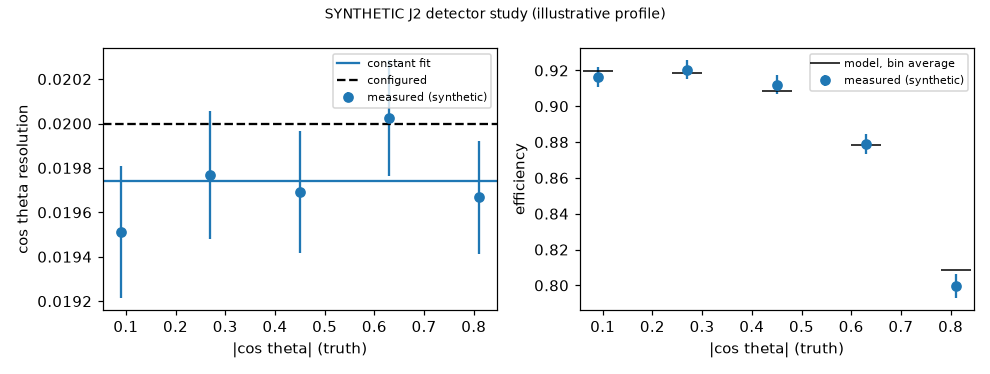
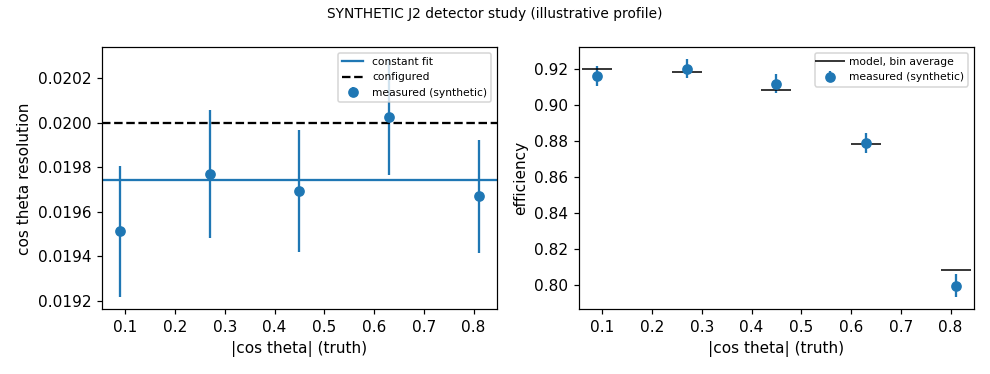
release: hep-research 0.50.0 (WIP: version constants and the outputs that reproduce on Linux)
Version 0.50.0 in both manifests, pyproject.toml, the README, two assets, the six theory-profile
scripts, usine_translate.py and examples/bc-usine-reproduction/run.py. Regenerated here
(Linux, Python 3.13.2), version-only: 8 theory-profile files and the detector-resolution,
eic-profile-routing and recasting example outputs. Not yet regenerated: 5 theory predictions and
12 example outputs whose numbers drift off E2; they need E2.

diff --git a/plugins/hep-research/examples/bc-usine-reproduction/run.py b/plugins/hep-research/examples/bc-usine-reproduction/run.py
@@ -252,7 +252,7 @@ def stage_data(out: Path) -> dict:
         "objective": "AMS-02 B/C (PRL 117, 231102, 2016), 67 rigidity bins, read from the per-source breakdown table "
                      "shipped with USINE V3.5 (a transcription of the paper's table), for the F1 reproduction",
         "bindings": {"experiments": [{"profile": "experiment:ams-02", "version": "2.0.0"}], "theory": []},
-        "versions": {"plugin": "0.49.1", "contracts": CONTRACTS_VERSION, "profiles": {"experiment:ams-02": "2.0.0"}},
+        "versions": {"plugin": "0.50.0", "contracts": CONTRACTS_VERSION, "profiles": {"experiment:ams-02": "2.0.0"}},
         "provenance": {"producer_skill": "hep-statistics", "created": "2026-10-28", "evidence_ids": ["ams02:S10"]},
         "inputs": [], "outputs": [], "status": ["observed"],
         "unresolved_inputs": ["values transcribed by USINE's authors (GPL-2.0 file, read in place): compared with the "

diff --git a/plugins/hep-research/profiles/theory/heliospheric-modulation/scripts/make_artifacts.py b/plugins/hep-research/profiles/theory/heliospheric-modulation/scripts/make_artifacts.py
@@ -16,7 +16,7 @@ from pathlib import Path
 HERE = Path(__file__).resolve().parent
 PROFILE = HERE.parent
 PROFILE_ID, PROFILE_VERSION = "theory:heliospheric-modulation", "0.1.0"
-PLUGIN_VERSION, CONTRACTS = "0.49.1", "3.17.0"
+PLUGIN_VERSION, CONTRACTS = "0.50.0", "3.17.0"
 CREATED = "2026-10-15"
 SPEC_PATH = PROFILE / "derivations" / "theory-spec.json"
 CORE_KEYS = ("unit_system", "hbar_c_one", "metric_signature", "coupling_normalization", "renormalization_scheme",

diff --git a/plugins/hep-research/adapters/cr-propagation/assets/usine_translate.py b/plugins/hep-research/adapters/cr-propagation/assets/usine_translate.py
@@ -144,7 +144,7 @@ PROGRAM = "USINE"
 PROGRAM_VERSION = ("V3.5 (git tag V3.5, commit fb53006db41d1a640bf1b5af1a4b0f899ca59673; built with Apple clang 21.0.0 "
                    "against ROOT 6.38.04)")
 CONTRACT_VERSION = "3.14.0"
-PLUGIN_VERSION = "0.49.1"
+PLUGIN_VERSION = "0.50.0"
 
 # units (r3 P1): IAU 2012 parsec = 648000/pi au, au = 149 597 870 700 m; Julian year of 365.25 d
 KPC_CM = 648000.0 / math.pi * 1.495978707e13 * 1e3

diff --git a/plugins/hep-research/profiles/theory/drell-yan-lo/scripts/make_artifacts.py b/plugins/hep-research/profiles/theory/drell-yan-lo/scripts/make_artifacts.py
@@ -26,7 +26,7 @@ PROFILE = HERE.parent
 sys.path.insert(0, str(HERE))
 
 PROFILE_ID, PROFILE_VERSION = "theory:drell-yan-lo", "0.1.0"
-PLUGIN_VERSION, CONTRACTS = "0.49.1", "3.17.0"
+PLUGIN_VERSION, CONTRACTS = "0.50.0", "3.17.0"
 CREATED = "2026-10-23"
 SPEC_PATH = PROFILE / "derivations" / "theory-spec.json"
 PRED_PATH = PROFILE / "predictions" / "angular-coefficients.prediction.json"

diff --git a/plugins/hep-research/profiles/theory/cr-secondary-ratio/scripts/make_artifacts.py b/plugins/hep-research/profiles/theory/cr-secondary-ratio/scripts/make_artifacts.py
@@ -22,7 +22,7 @@ PROFILE = HERE.parent
 sys.path.insert(0, str(HERE))
 
 PROFILE_ID, PROFILE_VERSION = "theory:cr-secondary-ratio", "0.1.0"
-PLUGIN_VERSION, CONTRACTS = "0.49.1", "3.17.0"
+PLUGIN_VERSION, CONTRACTS = "0.50.0", "3.17.0"
 CREATED = "2026-10-15"
 SPEC_PATH = PROFILE / "derivations" / "theory-spec.json"
 PRED_PATH = PROFILE / "predictions" / "bc-benchmark.prediction.json"

diff --git a/plugins/hep-research/profiles/theory/dis-parton-model/scripts/make_artifacts.py b/plugins/hep-research/profiles/theory/dis-parton-model/scripts/make_artifacts.py
@@ -25,7 +25,7 @@ PROFILE = HERE.parent
 sys.path.insert(0, str(HERE))
 
 PROFILE_ID, PROFILE_VERSION = "theory:dis-parton-model", "0.1.0"
-PLUGIN_VERSION, CONTRACTS = "0.49.1", "3.17.0"
+PLUGIN_VERSION, CONTRACTS = "0.50.0", "3.17.0"
 CREATED = "2026-10-23"
 SPEC_PATH = PROFILE / "derivations" / "theory-spec.json"
 PRED_PATH = PROFILE / "predictions" / "fl-toy-grid.prediction.json"

diff --git a/plugins/hep-research/profiles/theory/cr-secondary-antiprotons/scripts/make_artifacts.py b/plugins/hep-research/profiles/theory/cr-secondary-antiprotons/scripts/make_artifacts.py
@@ -24,7 +24,7 @@ PROFILE = HERE.parent
 sys.path.insert(0, str(HERE))
 
 PROFILE_ID, PROFILE_VERSION = "theory:cr-secondary-antiprotons", "0.1.0"
-PLUGIN_VERSION, CONTRACTS = "0.49.1", "3.17.0"
+PLUGIN_VERSION, CONTRACTS = "0.50.0", "3.17.0"
 CREATED = "2026-10-15"
 MODEL_FAMILY = "cosmic-ray-secondary-source-term"
 SPEC_PATH = PROFILE / "derivations" / "theory-spec.json"

diff --git a/plugins/hep-research/profiles/theory/tmd-gaussian-lo/scripts/make_artifacts.py b/plugins/hep-research/profiles/theory/tmd-gaussian-lo/scripts/make_artifacts.py
@@ -25,7 +25,7 @@ PROFILE = HERE.parent
 sys.path.insert(0, str(HERE))
 
 PROFILE_ID, PROFILE_VERSION = "theory:tmd-gaussian-lo", "0.1.0"
-PLUGIN_VERSION, CONTRACTS = "0.49.1", "3.17.0"
+PLUGIN_VERSION, CONTRACTS = "0.50.0", "3.17.0"
 CREATED = "2026-10-23"
 SPEC_PATH = PROFILE / "derivations" / "theory-spec.json"
 PRED_DIR = PROFILE / "predictions"

diff --git a/plugins/hep-research/README.md b/plugins/hep-research/README.md
@@ -2,7 +2,7 @@
 
 Claude Code and Codex plugin for experimental and theoretical high-energy and astroparticle physics research.
 
-Version 0.49.1, licensed under Apache-2.0 (see [LICENSE](LICENSE)). Not endorsed by AMS or any collaboration. Example data is synthetic and labeled synthetic in file names and metadata.
+Version 0.50.0, licensed under Apache-2.0 (see [LICENSE](LICENSE)). Not endorsed by AMS or any collaboration. Example data is synthetic and labeled synthetic in file names and metadata.
 Validation status: [docs/capability-matrix.md](docs/capability-matrix.md). Test evidence: [VALIDATION.md](VALIDATION.md).
 
 ## Core capabilities
